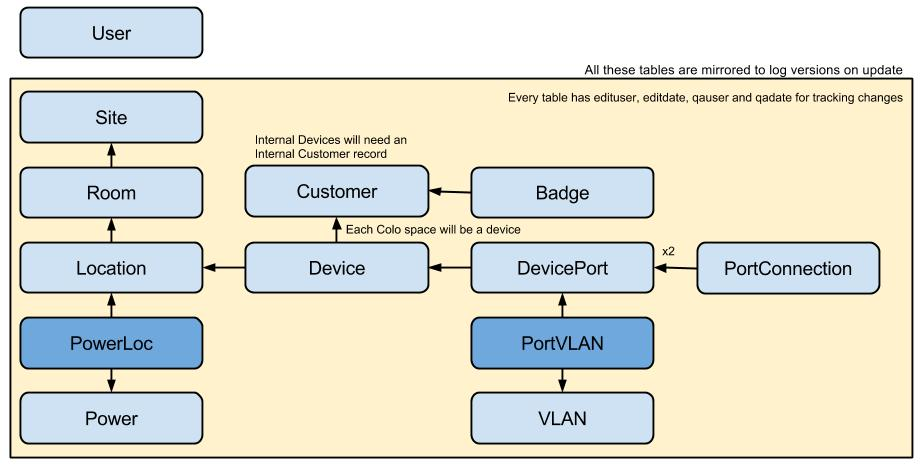
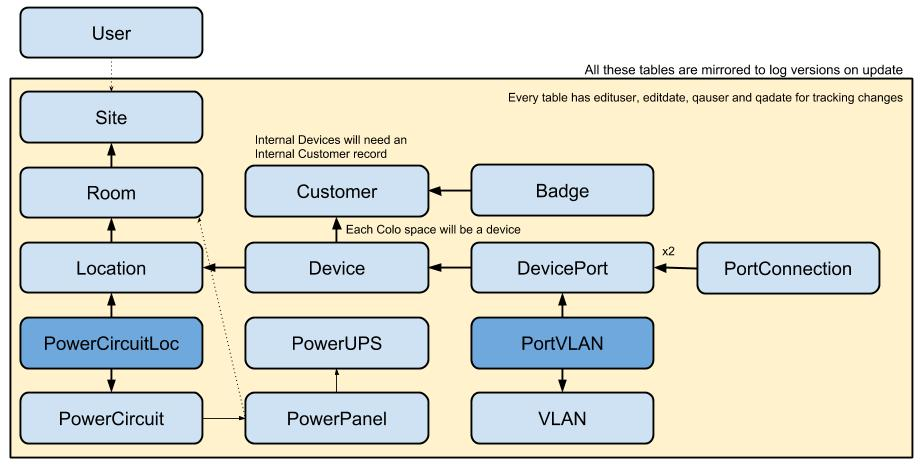
Added some DB update notes and updated DB diagram for new power tables

diff --git a/lib/setup/dbSetupFunctions.php b/lib/setup/dbSetupFunctions.php
@@ -111,7 +111,24 @@
 		if($executePart1)
 		{
 			$debugMessage[]= "RunDBUpdate_Update1()-Part 1 - safe prep";
-
+			
+			/*
+			update user file
+			- update password hard field to 60 chars
+			- Add siteid field
+			update device
+			- add altname
+			- add order field - reversed for racks vs cabinets
+			
+			rename dcim_power to dcim_powercircuit
+			rename dcim_powerloc to dcim_powercircuitloc
+			Add dcim_powerups
+			 - upsid, name, volts, amps, note
+			Add dcim_powerpanel
+			 - panelid, name, volts, amps, xpos, ypos, width, depth, orientation, note, upsid, roomid
+			 
+			 */
+			
 			/*
 			//add new files to room, site and location tables for site layout values
 			$cmdm = "ALTER TABLE  `dcim_room`

diff --git a/index.php b/index.php
@@ -20,7 +20,7 @@
 	
 	if($redirectAroundFormResubmitWarning)
 	{
-		//read session message vars and cleaf session vars
+		//read session message vars and clear session vars
 		if(isset($_SESSION['resultMessage'])){
 			$resultMessage = $_SESSION['resultMessage']; 
 			unset($_SESSION['resultMessage']);
